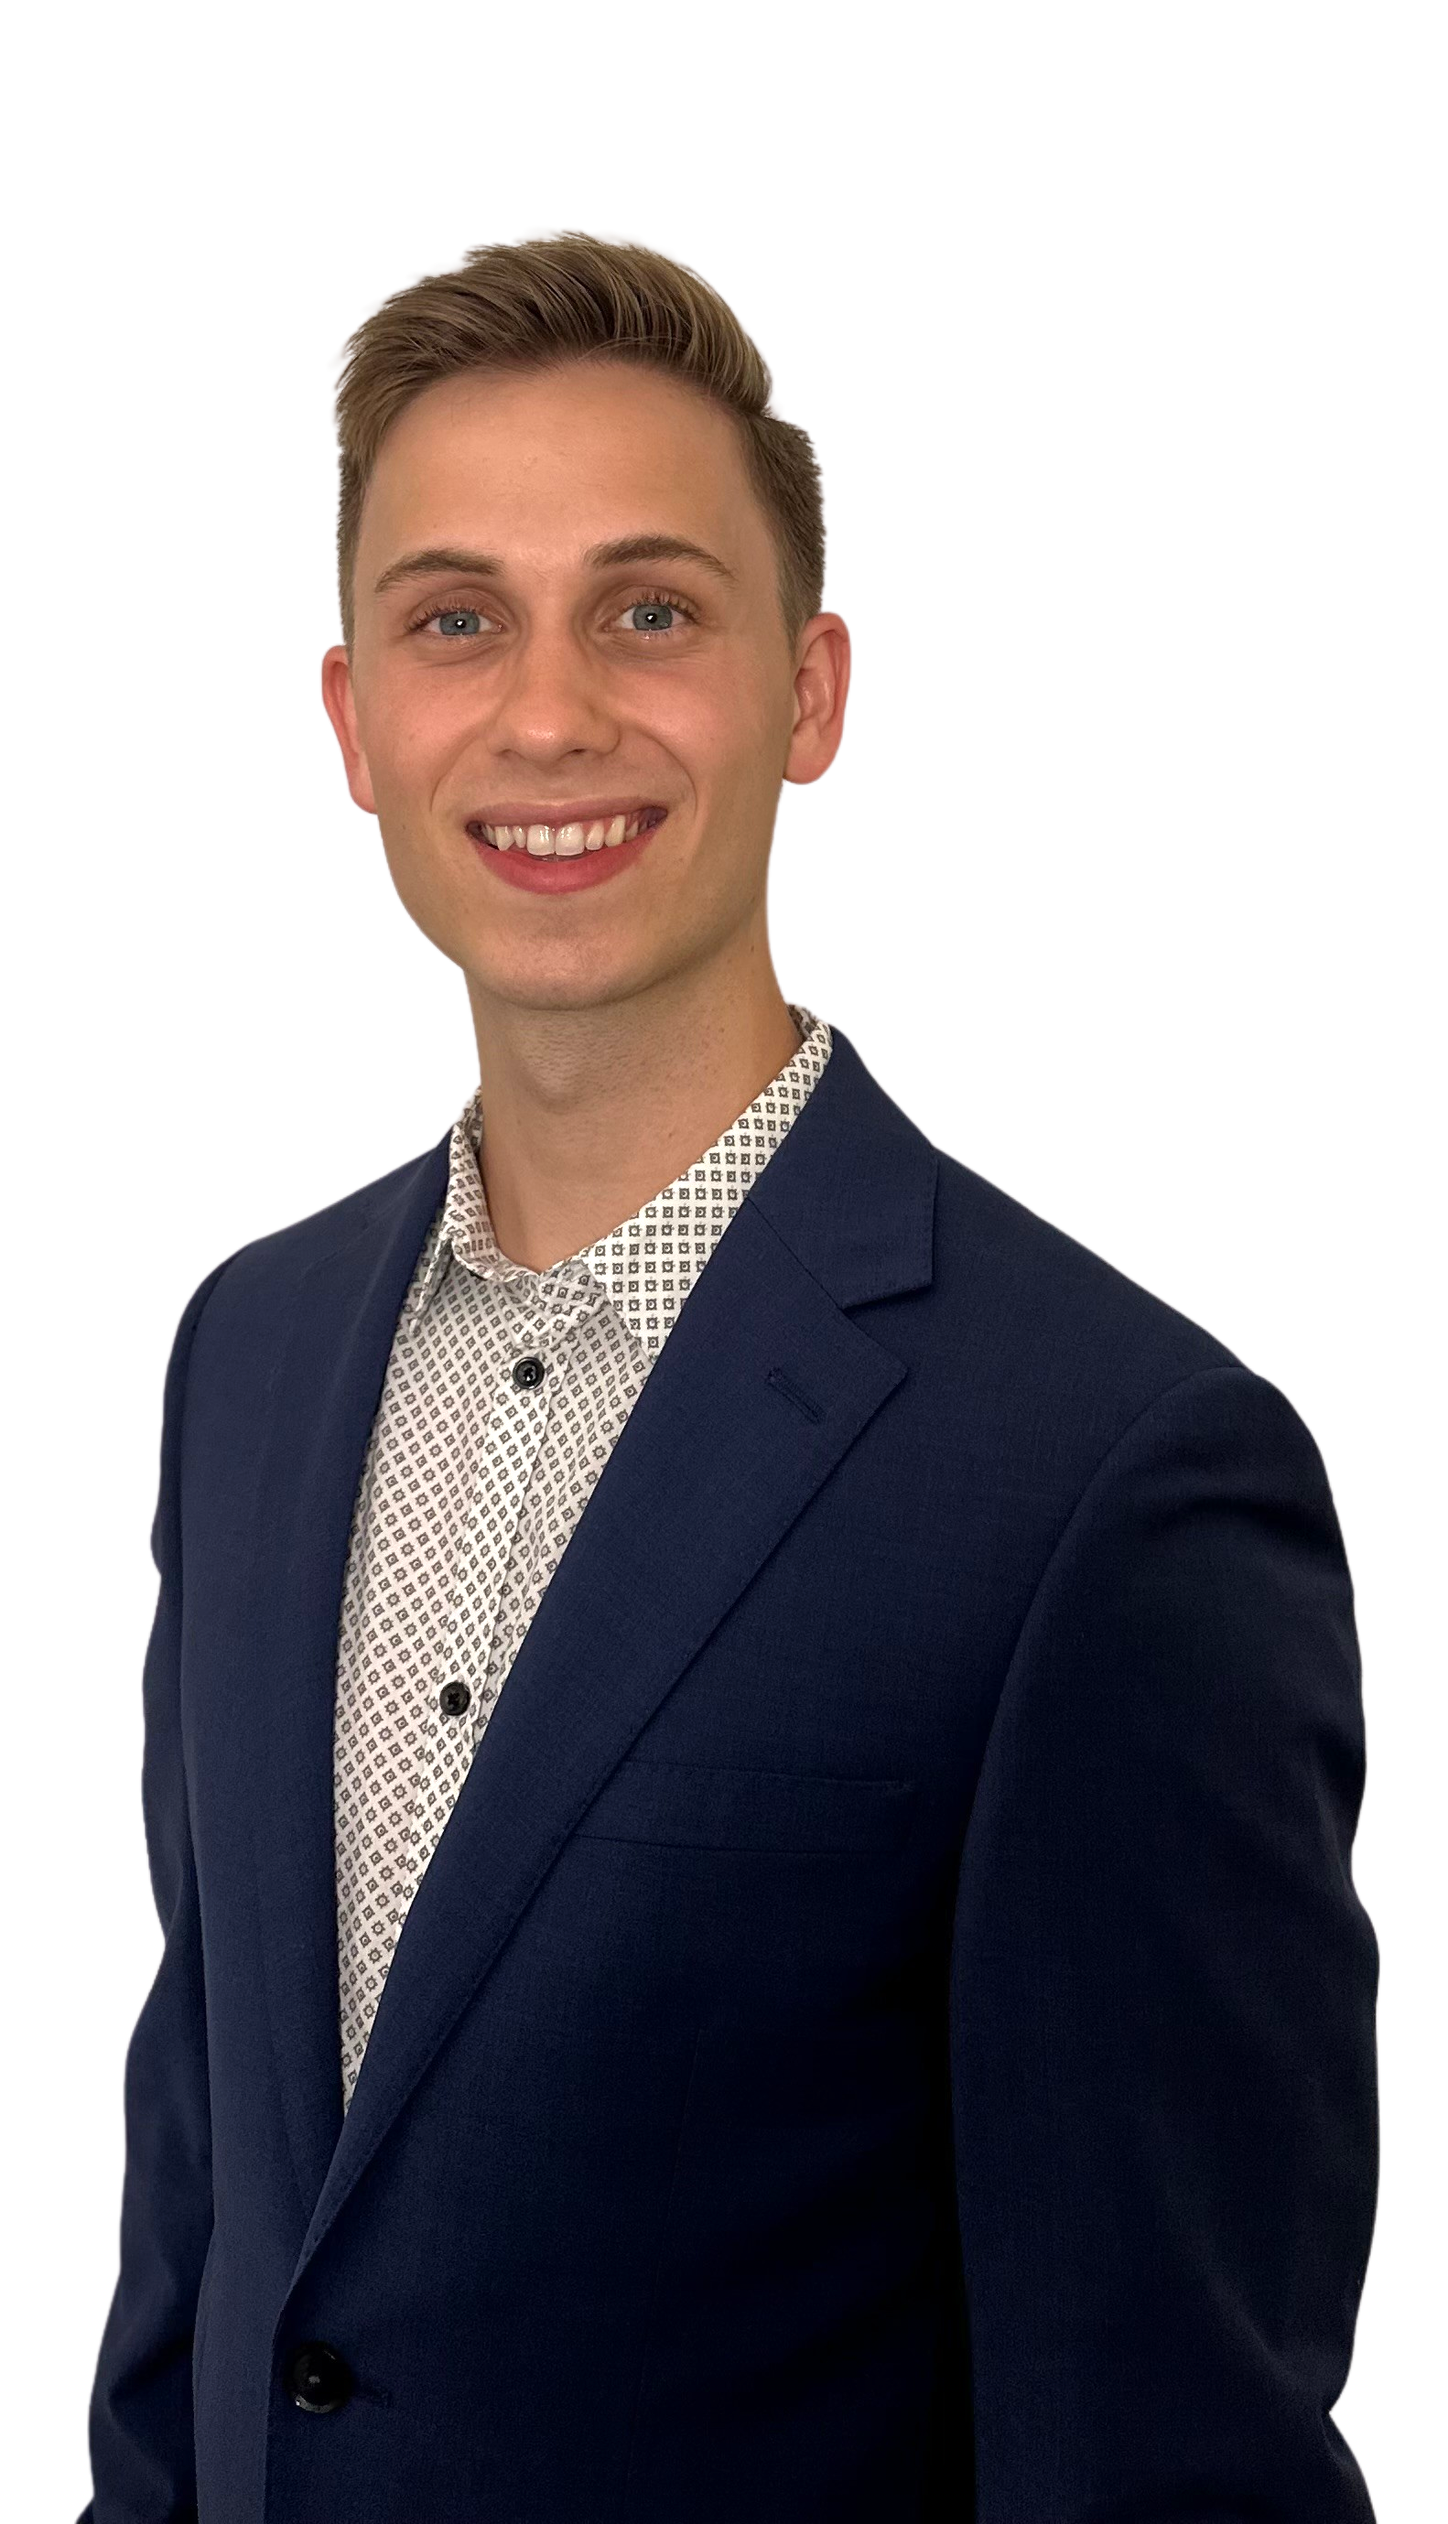
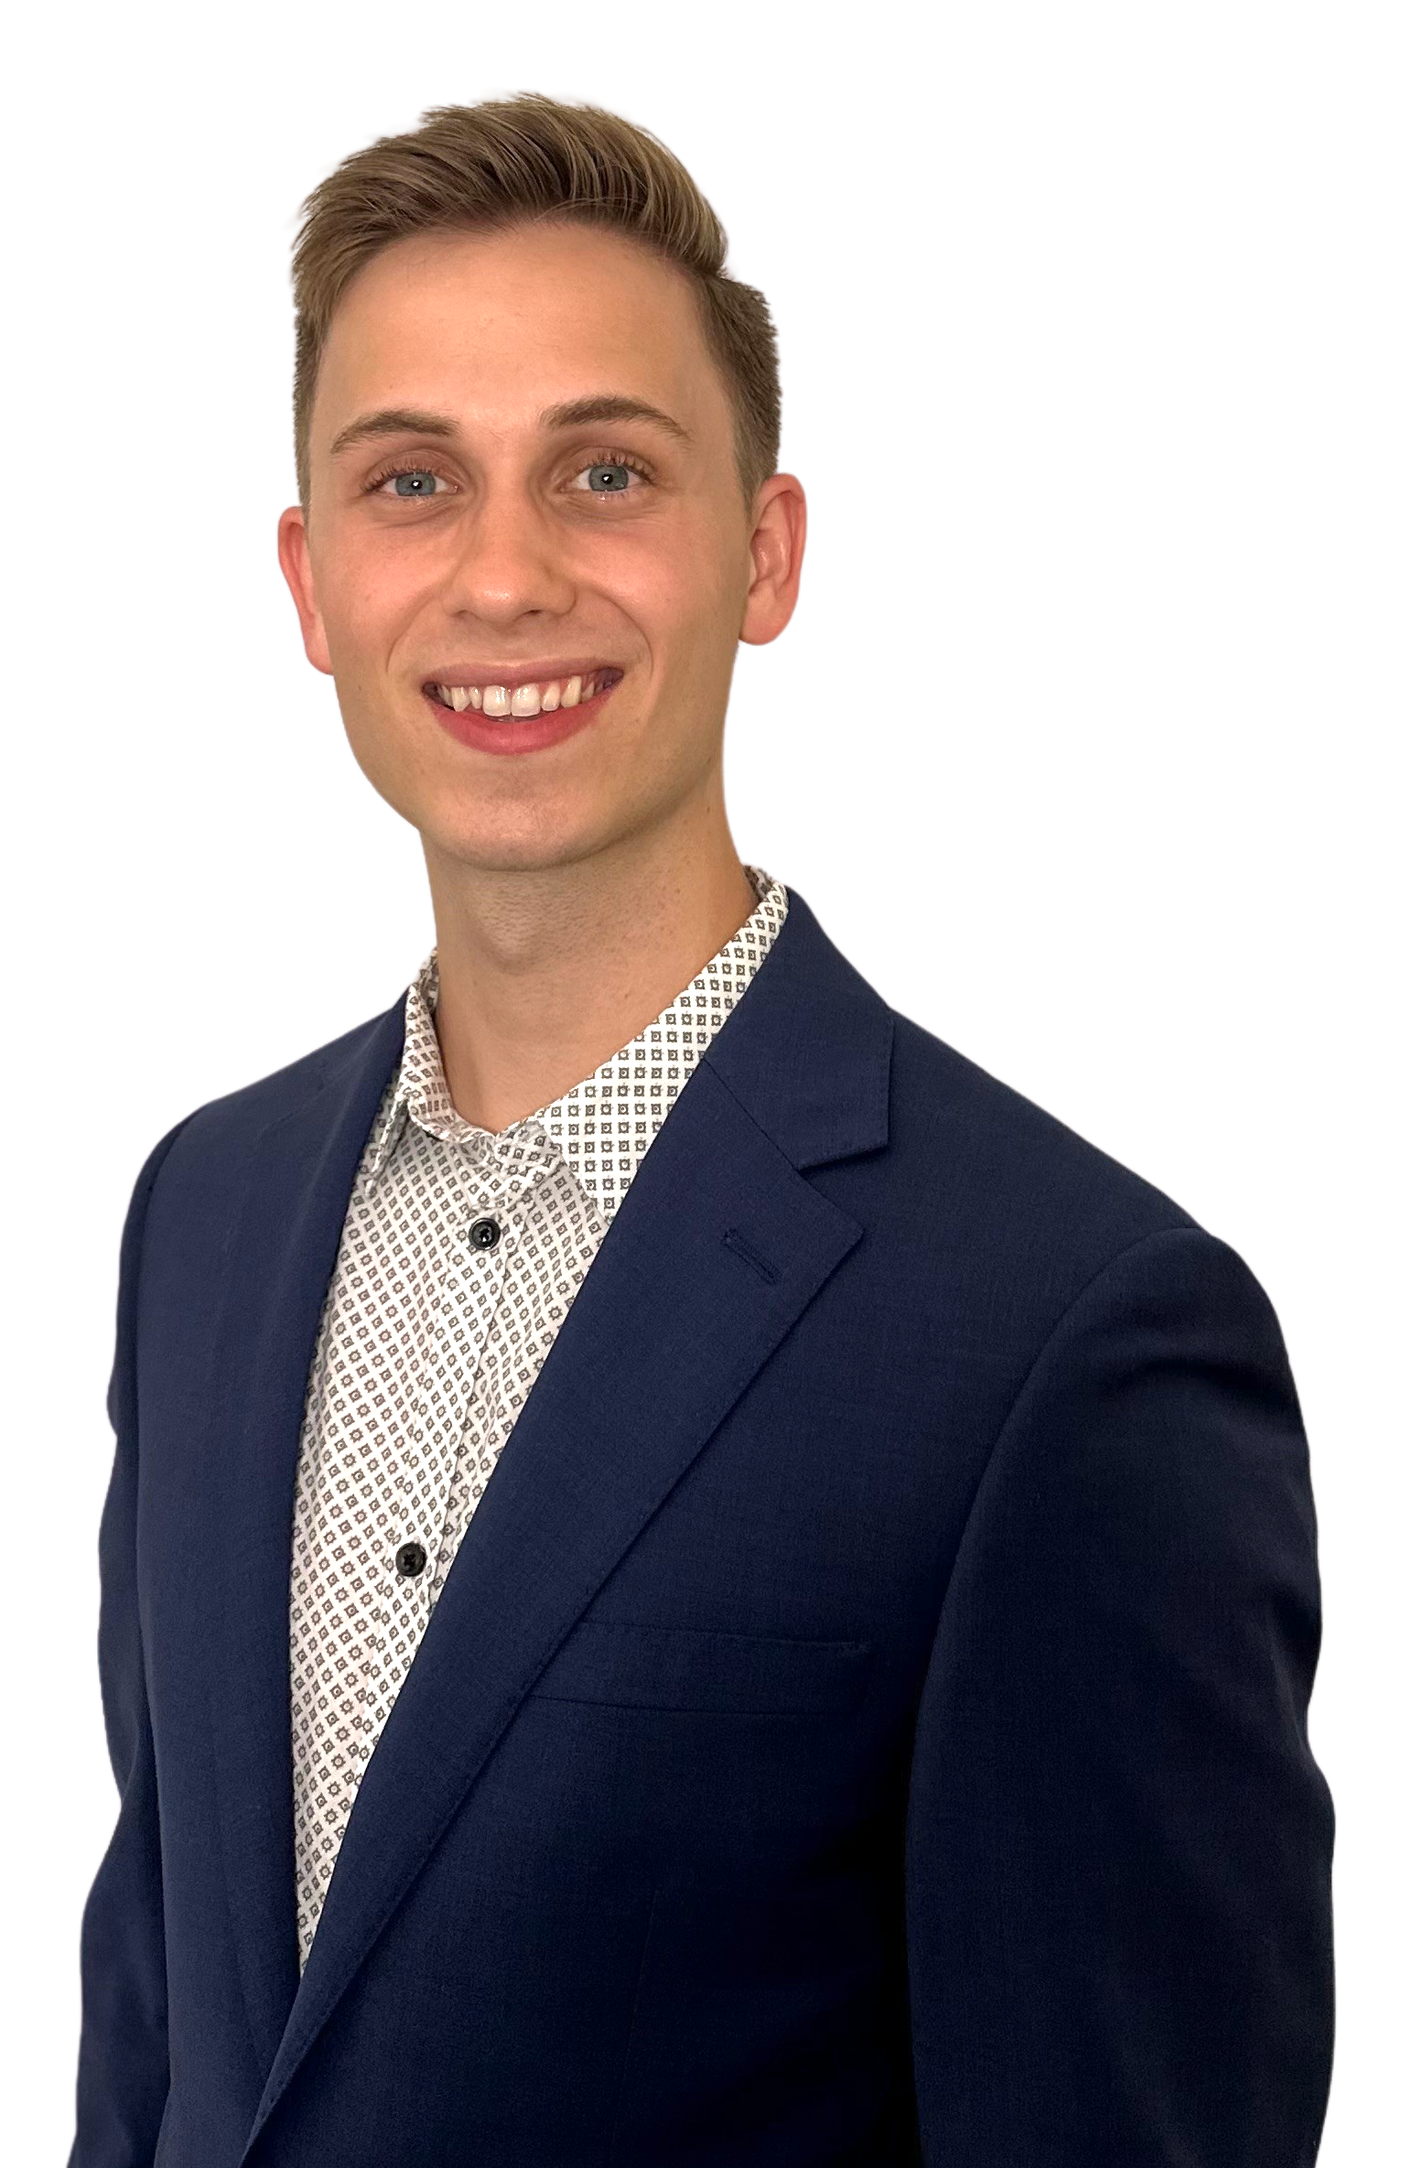
updates to styling

diff --git a/src/styles/home.css b/src/styles/home.css
@@ -16,12 +16,14 @@ h1 {
 	justify-content: center;
 	align-items: center;
 	flex-wrap: wrap;
+	column-gap: 2rem;
 }
 
 .home-text {
 	align-self: center;
 	/* min-width: 400px; */
 	max-width: 40rem;
+	padding-bottom: 3rem;
 }
 
 .hello-text,
@@ -42,21 +44,30 @@ h1 {
 	margin-bottom: 1rem;
 }
 
+.home-picture.viewed {
+	background-size: cover;
+	background-position: center;
+	/* background-image: url(/images/magicpattern-blob-1714837019151.png); */
+}
+
 .avatar {
 	height: auto;
 	max-width: max(200px, 20vw);
 	margin-top: auto;
 	margin-bottom: auto;
 	margin-inline: 2rem;
-	border-radius: 35%;
+	padding-bottom: 3rem;
+	border-bottom-left-radius: 30%;
+	border-bottom-right-radius: 35%;
+	/* filter: drop-shadow(10px 10px 5px var(--accent-primary)); */
 }
 
-@media (max-width: 725px) {
+@media (max-width: 1000px) {
 	.home-block {
 		margin-top: 3rem;
 		flex-direction: column;
 		justify-content: flex-start;
-		row-gap: 3rem;
+		/* row-gap: 3rem; */
 		padding-bottom: 0px !important;
 	}
 }

diff --git a/src/Home.jsx b/src/Home.jsx
@@ -29,11 +29,11 @@ function Home({ innerRef }) {
 					<p className={"hello-text" + (helloTextVisible ? " viewed" : " not-viewed")}>Hello, my name is </p>
 					<h1 className={"name" + (nameVisible ? " viewed" : " not-viewed")}>Ethan Haller</h1>
 					<p className={"motto-text" + (mottoTextVisible ? " viewed" : " not-viewed")}>
-						I am a versatile software engineer specializing in full-stack web applications, with a passion for self-improvement. Currently, I do
+						I am a versatile software engineer specializing in full-stack web applications. Currently, I do
 						BLANK at <a href="https://www.yext.com/" target="_blank">Yext</a>.
 					</p>
 				</div>
-				<div className="home-picture">
+				<div className={"home-picture" + (avatarVisible ? " viewed" : " not-viewed")}>
 					<img src="/images/headshot.png" alt="avatar" className={"avatar" + (avatarVisible ? " viewed" : " not-viewed")}></img>
 				</div>
 			</section>

diff --git a/src/theme.css b/src/theme.css
@@ -1,10 +1,4 @@
 :root {
-	/* color-scheme: light dark; */
-	color-scheme: dark;
-}
-
-/* @media (prefers-color-scheme: dark) { */
-:root {
 	--bg-primary: #112b41;
 	--bg-secondary: #1b354b;
 	--bg-tertiary: #234c6b;
@@ -13,19 +7,6 @@
 	--text-primary: #ebebeb;
 	--text-secondary: #c2c2c2;
 }
-/* } */
-
-/* @media (prefers-color-scheme: light) {
-	:root {
-		--bg-primary: #ebebeb;
-		--bg-secondary: #dfdfdf;
-		--bg-tertiary: #c0c0c0;
-		--accent-primary: #4dbb4a;
-		--accent-secondary: #8cc084;
-		--text-primary: #112b41;
-		--text-secondary: #234c6b;
-	}
-} */
 
 @font-face {
 	font-family: "Inter";
@@ -37,6 +18,7 @@
 :root {
 	background-color: var(--bg-primary);
 	font-family: "Inter", sans-serif;
+	color: var(--text-primary);
 }
 
 body {
